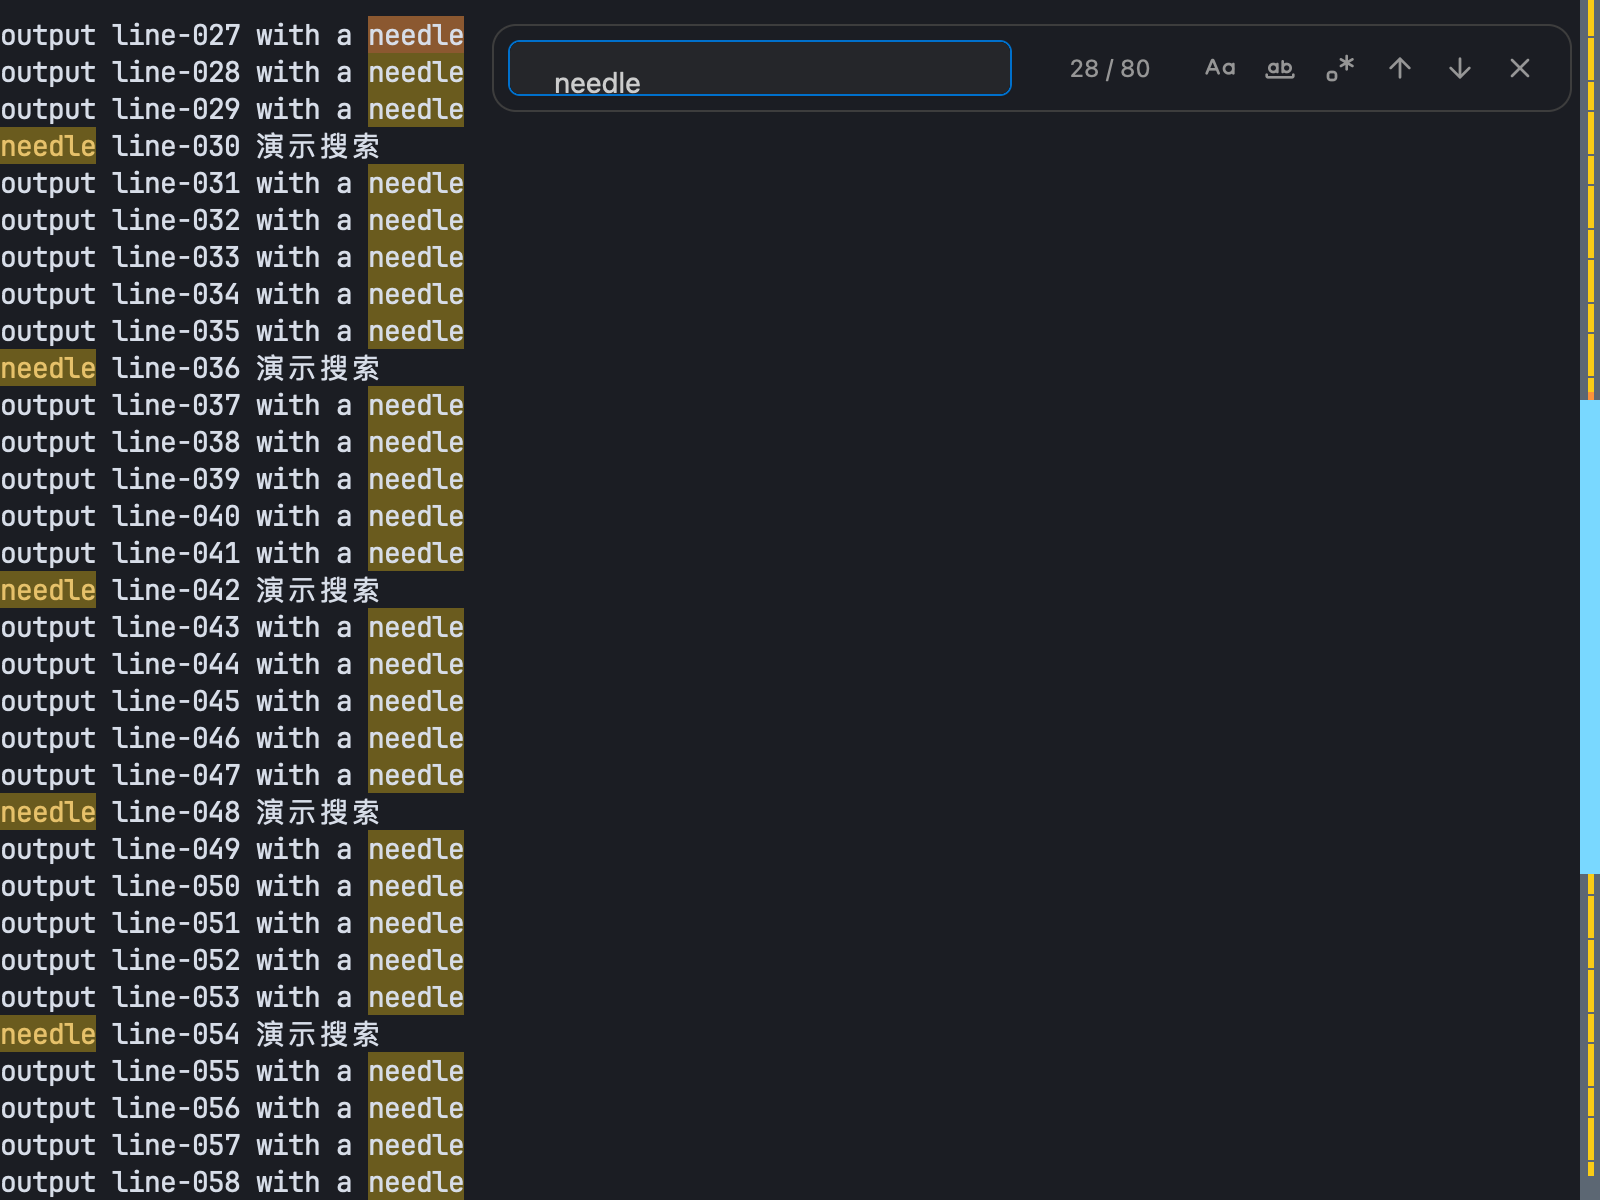
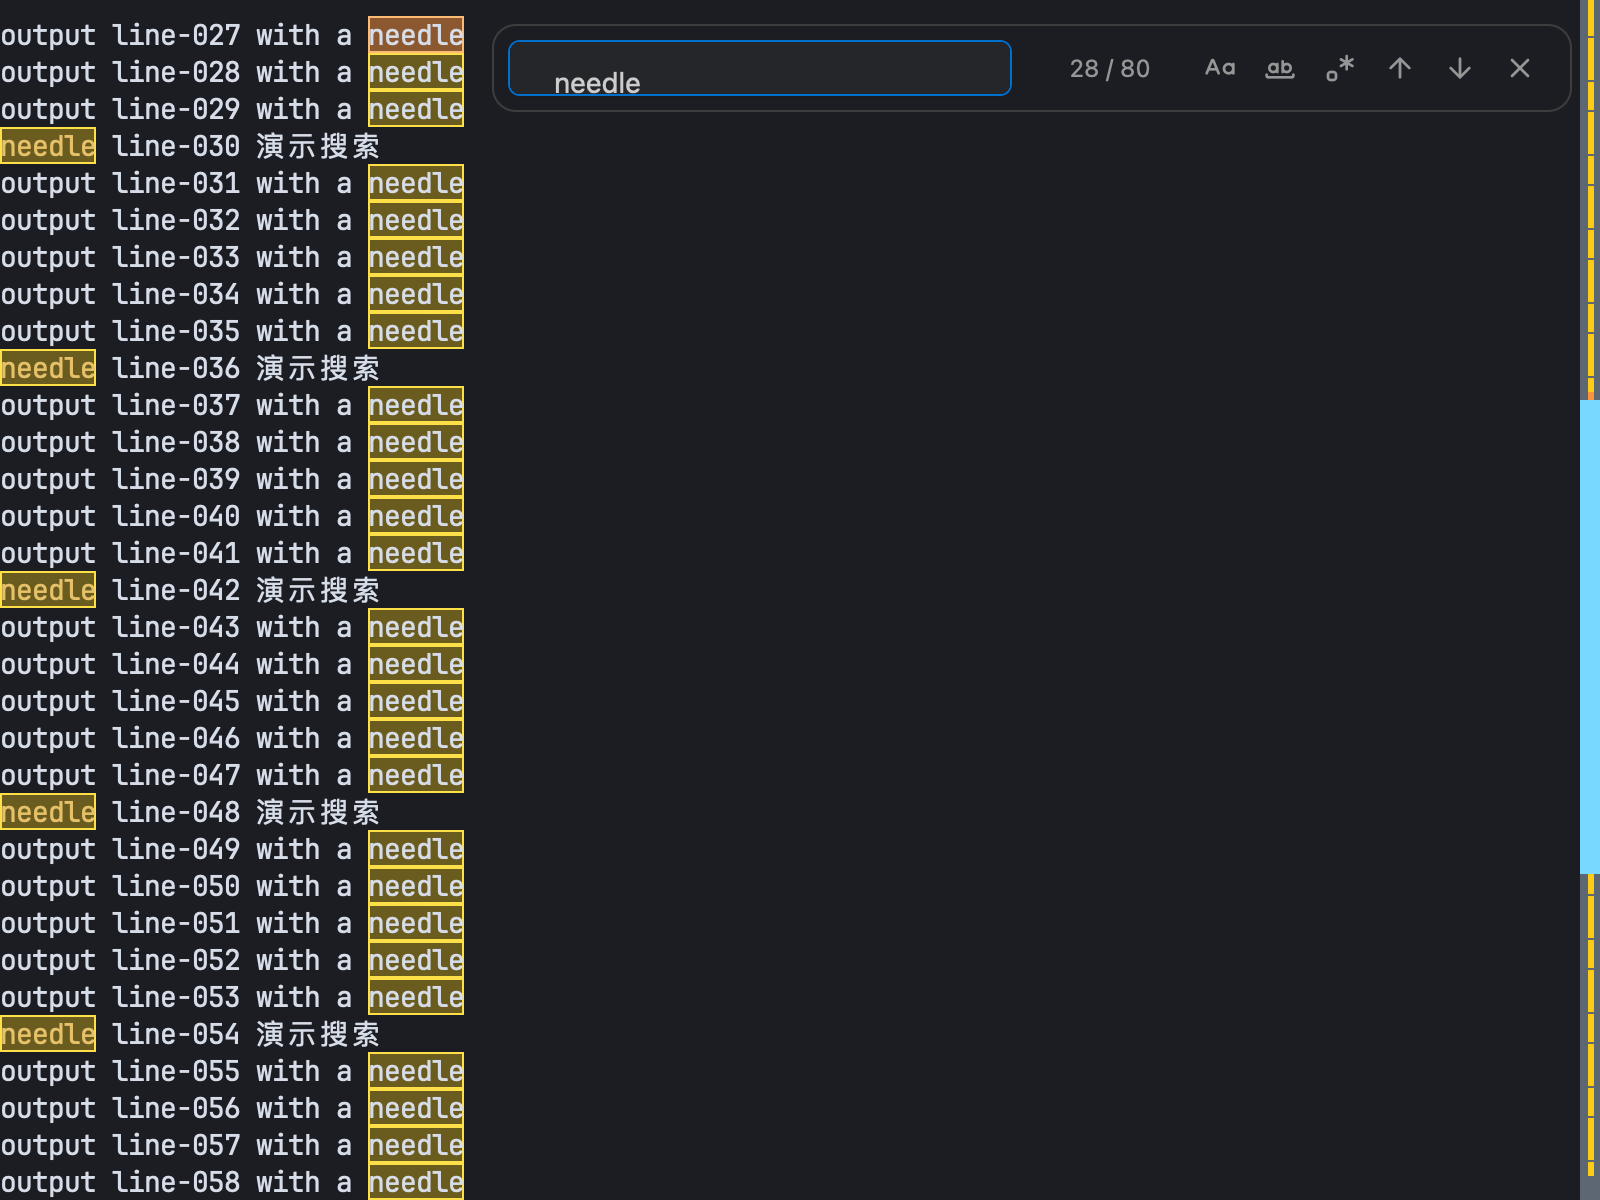
:lipstick: Draw the search decoration borders from the frontend palette

diff --git a/crates/tterm-terminal-view/src/view/paint.rs b/crates/tterm-terminal-view/src/view/paint.rs
@@ -1,6 +1,8 @@
 //! The paint phase: rectangles and glyphs only, no shaping and no model lock.
 
-use gpui_kit::{Bounds, Hsla, PathBuilder, Pixels, Point, Window, fill, point, px, size};
+use gpui_kit::{
+    BorderStyle, Bounds, Hsla, PathBuilder, Pixels, Point, Window, fill, outline, point, px, size,
+};
 use tterm_terminal::palette::TerminalPalette;
 use tterm_terminal::selection::SelectionRange;
 use tterm_terminal::snapshot::CursorShape;
@@ -10,8 +12,8 @@ use crate::glyphs::{GlyphFill, GlyphShape};
 use super::font::CellGeometry;
 use super::row::{PlacedGlyph, RowLayout, UnderlineSpan};
 use super::search::{
-    ACTIVE_MATCH_BACKGROUND, ACTIVE_MATCH_BACKGROUND_ALPHA, MATCH_BACKGROUND,
-    MATCH_BACKGROUND_ALPHA, VisibleSearch, VisibleSearchSpan,
+    ACTIVE_MATCH_BACKGROUND, ACTIVE_MATCH_BACKGROUND_ALPHA, ACTIVE_MATCH_BORDER, MATCH_BACKGROUND,
+    MATCH_BACKGROUND_ALPHA, MATCH_BORDER, VisibleSearch, VisibleSearchSpan,
 };
 use super::style::hsla;
 
@@ -222,10 +224,14 @@ impl PaintContext<'_> {
     }
 
     fn paint_search_span(&mut self, origin: Point<Pixels>, span: &VisibleSearchSpan) {
-        let (color, alpha) = if span.active {
-            (ACTIVE_MATCH_BACKGROUND, ACTIVE_MATCH_BACKGROUND_ALPHA)
+        let (color, alpha, border) = if span.active {
+            (
+                ACTIVE_MATCH_BACKGROUND,
+                ACTIVE_MATCH_BACKGROUND_ALPHA,
+                ACTIVE_MATCH_BORDER,
+            )
         } else {
-            (MATCH_BACKGROUND, MATCH_BACKGROUND_ALPHA)
+            (MATCH_BACKGROUND, MATCH_BACKGROUND_ALPHA, MATCH_BORDER)
         };
         let length = span.end.saturating_sub(span.start).saturating_add(1) as f32;
         let bounds = Bounds {
@@ -240,6 +246,8 @@ impl PaintContext<'_> {
         };
         self.window
             .paint_quad(fill(bounds, hsla(color.with_alpha(alpha))));
+        self.window
+            .paint_quad(outline(bounds, hsla(border), BorderStyle::default()));
     }
 
     fn paint_cell_content(
